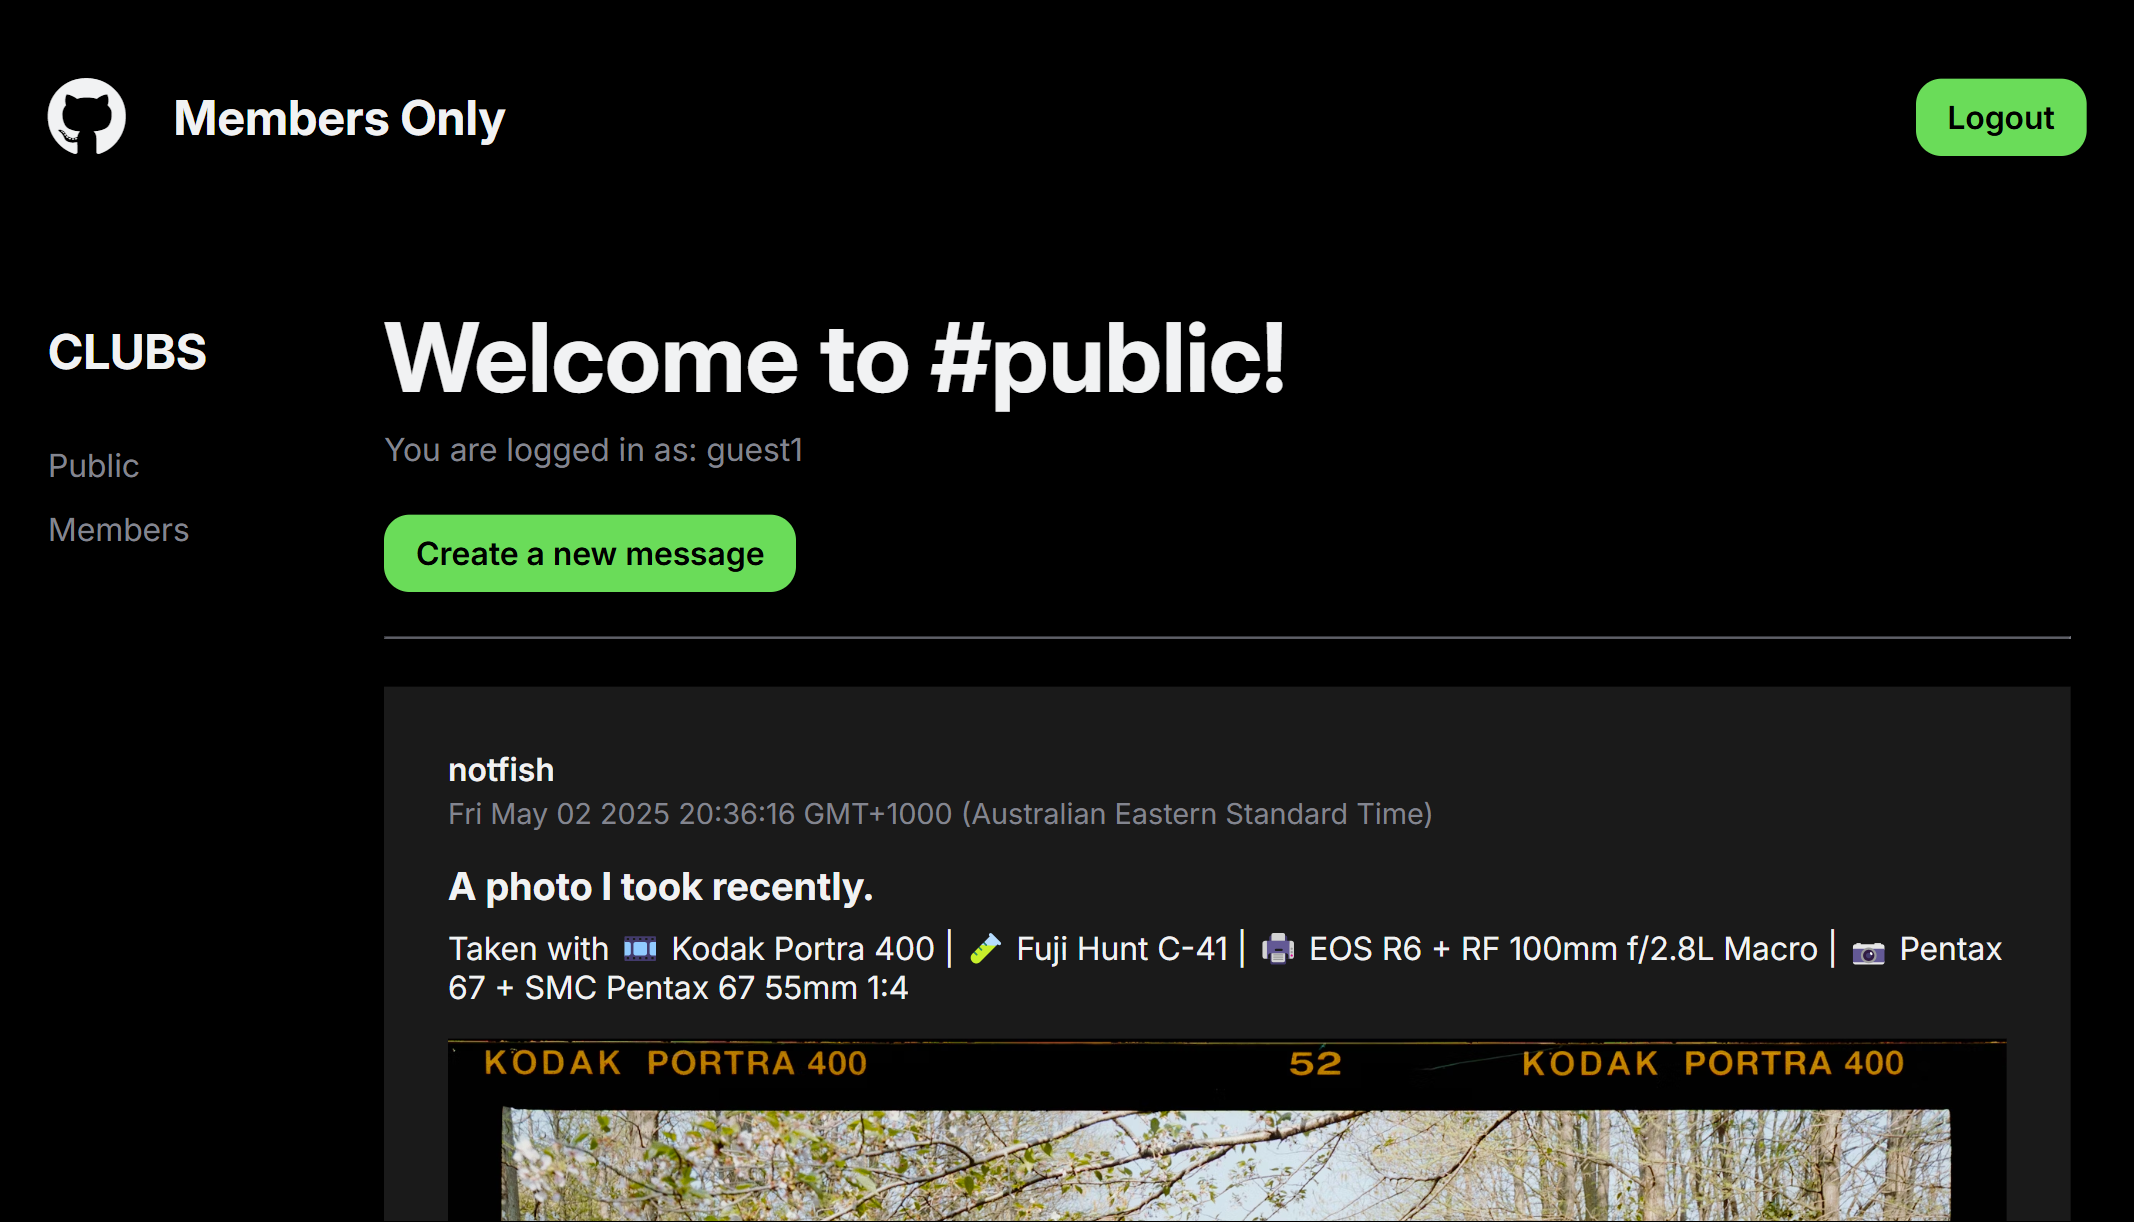
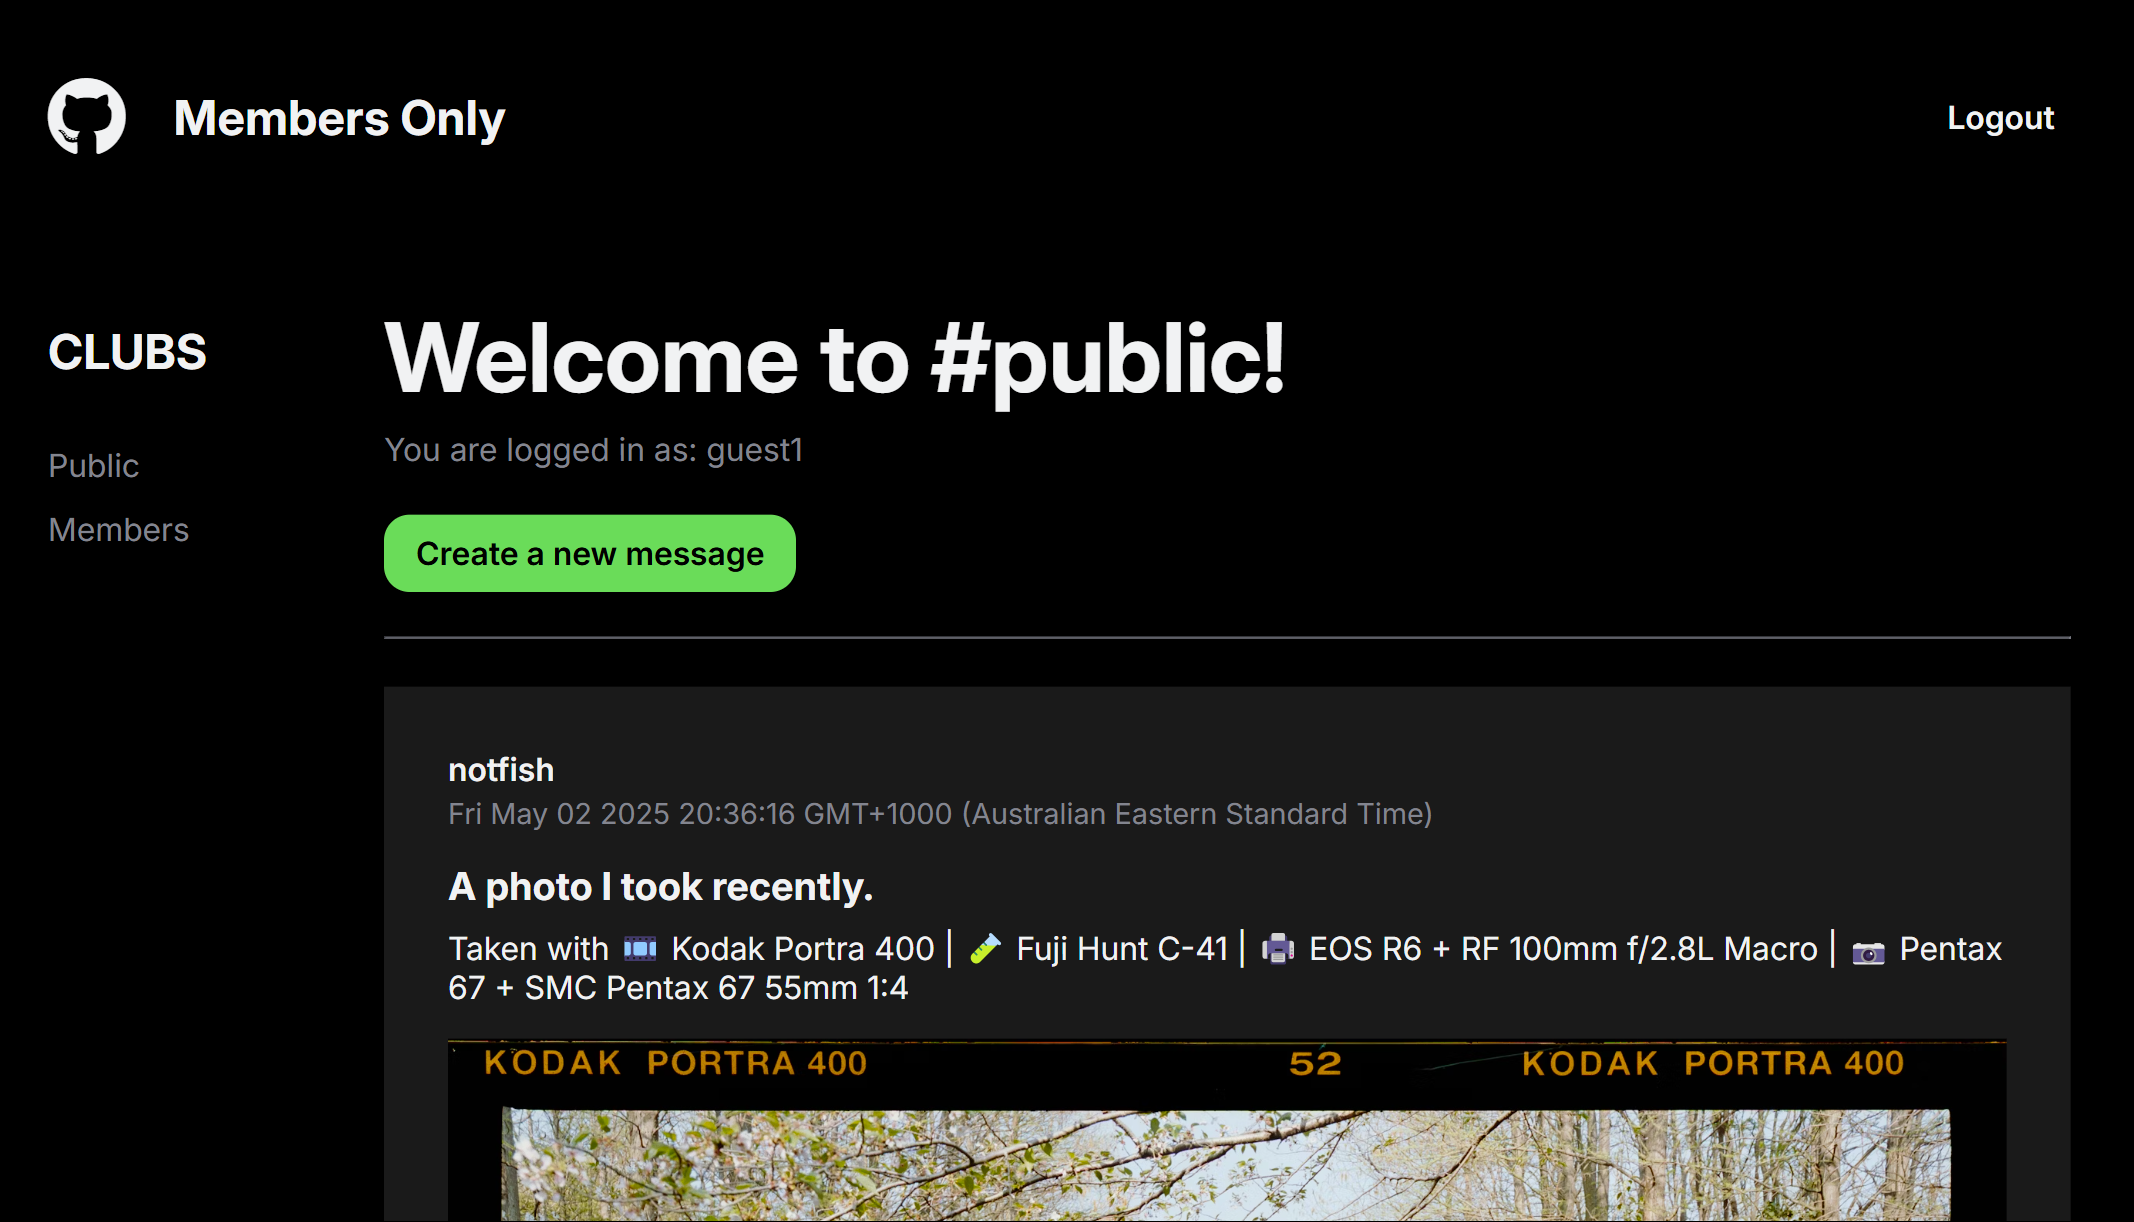
docs: add live link

Changed region(s): [[0.8969, 0.0622, 0.9897, 0.1555]]

diff --git a/public/css/styles.css b/public/css/styles.css
@@ -86,7 +86,6 @@ form button,
   padding: 0.6rem 1rem;
 }
 
-.logout,
 form button,
 .new-message {
   background-color: var(--contrast);
@@ -238,10 +237,11 @@ form button {
 .new-message-form textarea {
   width: 100%;
 }
+
 .new-message,
 .new-message-form button,
 p .signup {
-  background-color: rgb(73, 220, 95);
+  background-color: var(--contrast);
   color: var(--main);
 }
 

diff --git a/README.md b/README.md
@@ -22,6 +22,6 @@ Photo by realfish on Unsplash: https://unsplash.com/@realfish
 
 ## Links
 
-Live link:
+Live link: https://members-only-ytc5.onrender.com/
 
 Assignment: https://www.theodinproject.com/lessons/node-path-nodejs-members-only
